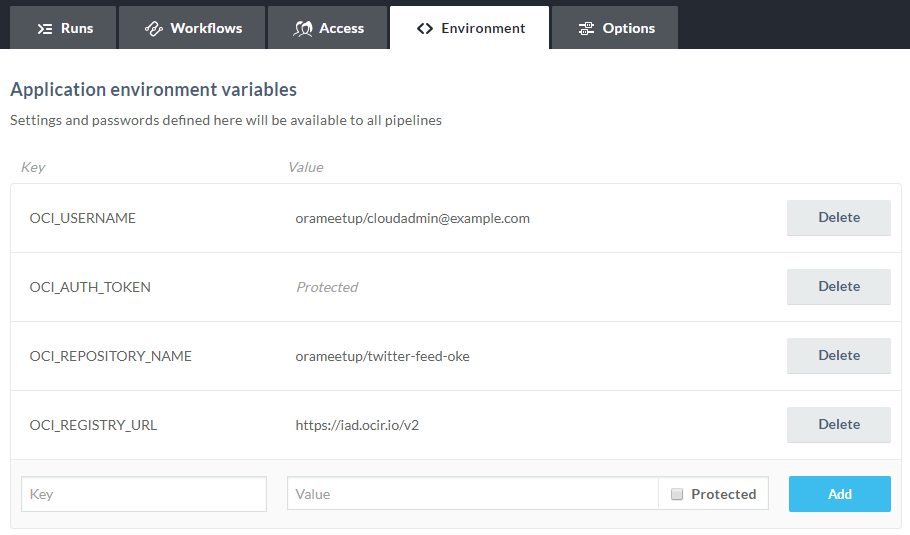
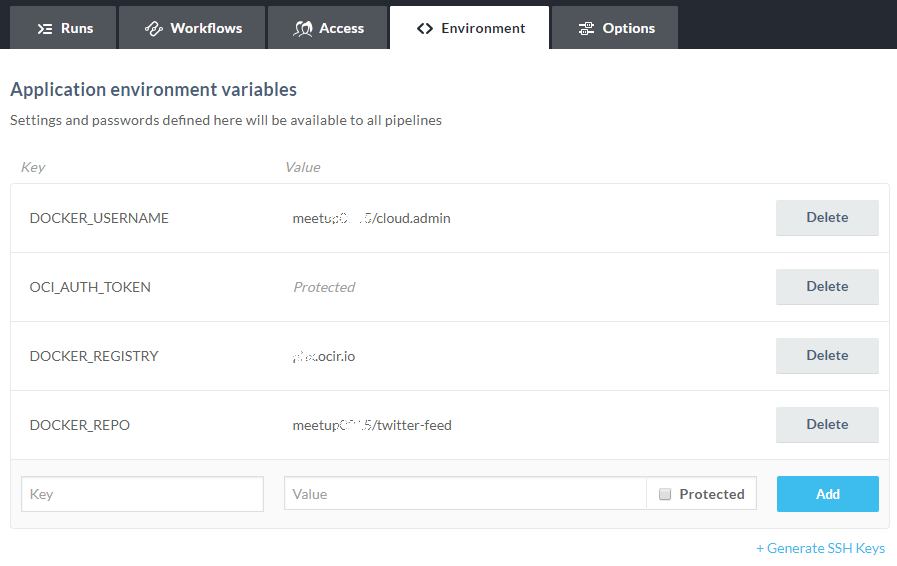
..

diff --git a/Lab200.md b/Lab200.md
@@ -158,6 +158,13 @@ wercker.yml 파일은 Wercker를 사용하기 위해 필요한 설정 파일로 
 2. 환경변수를 Key, Value 형태로 순서대로 하나씩 등록합니다. AUTH_TOKEN은 보안을 위해 Value 입력시 **Protected**를 체크합니다.
   ![](images/200_wercker_environment_2.png) 
 
+3. 위 입력정보는 개인별로 다릅니다.
+  - 강사에게 이메일을 알려주고 등록하여 아래 주소로 로그인합니다.
+      * http://129.213.20.158:7001/CloudAccount/account-info.jsp
+  ![](images/200_wercker_environment_2-1.png)   
+
+
+
 
 ### **STEP 7**: 테스트
 
